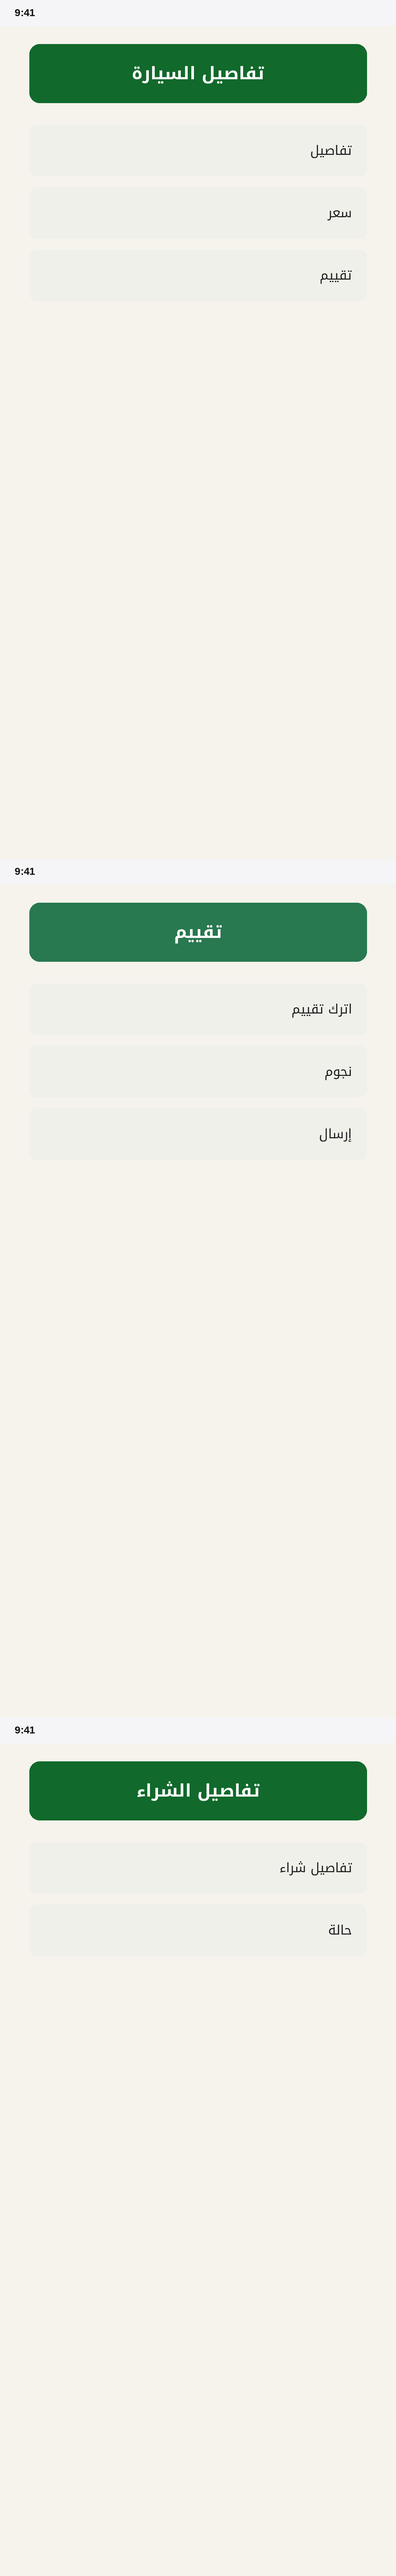
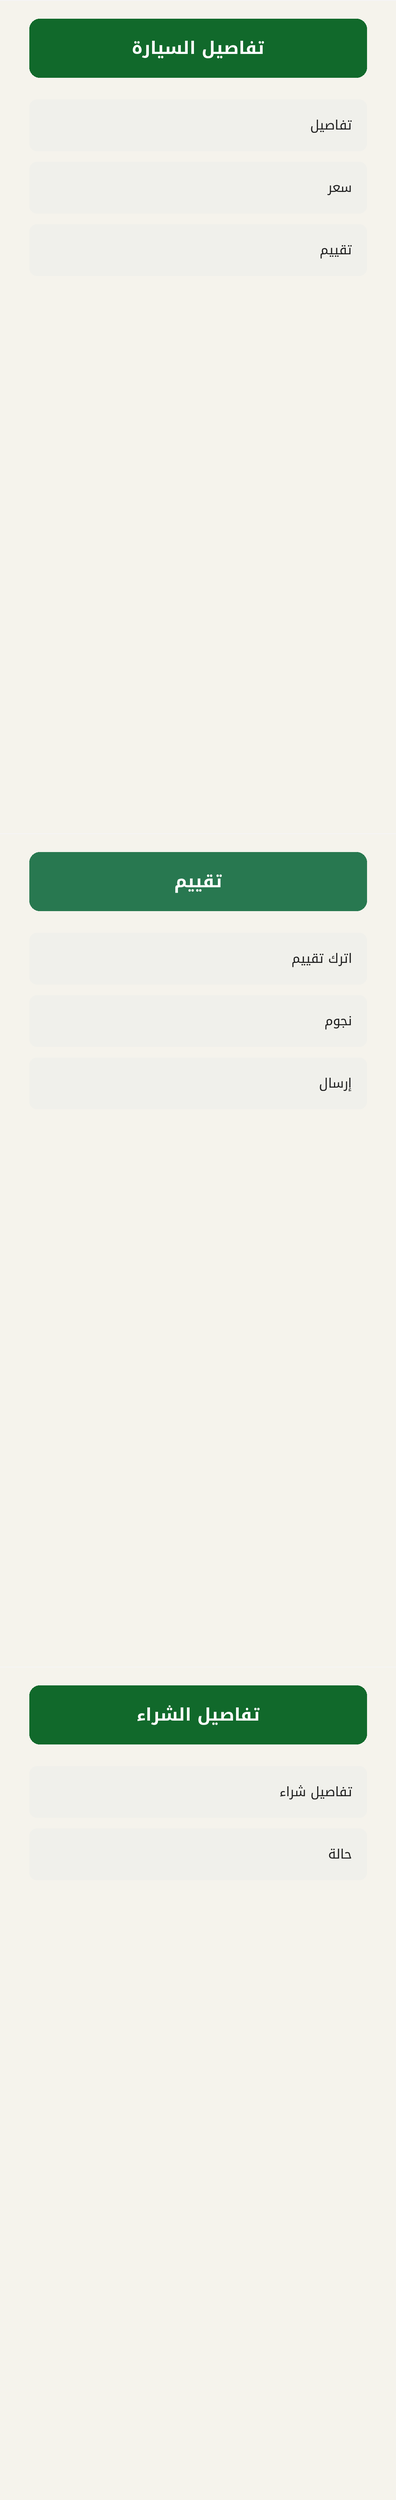
Wire up entrance/scroll config keys, fix crossfade wash-out and fixture
- Actually implement the "entrance" (rotate-in/fade-in/none) and
  "scroll" (auto/false) per-slide keys the docstring/README already
  promised but the code never read.
- Skip a slide's own entrance animation when it's arriving via
  crossfade -- blending two simultaneously-fading-in layers washed the
  transition out toward flat background. Only the deck's first slide
  (nothing to dissolve from) still plays its entrance.
- Regenerate examples/mock_shots/long_detail.png running each source
  screenshot through prepare_screen() before concatenating, so the
  interior status bars baked into the original captures don't leak
  into the middle of the "full page" scroll fixture.
- Drop the stray top-level "output" key from video_mock_config.json
  (build_carousel.py would have honored it and written a PDF named
  .mp4) and the unused default_duration parameter.

Changed region(s): [[0.0611, 0.6535, 0.9472, 0.7468], [0.0611, 0.0, 0.9472, 0.0622], [0.0611, 0.3423, 0.9472, 0.4356]]

diff --git a/build_showcase.py b/build_showcase.py
@@ -159,33 +159,41 @@ def _screens_layout(slide, cfg, canvas_size, chrome):
     return text_layer, positions
 
 
-def _prep_contents(specs, chrome, shot_w):
+ENTRANCE_ANGLES = {"rotate-in": -9.0, "fade-in": 0.0}
+
+
+def _prep_contents(specs, chrome, shot_w, allow_scroll):
     contents = []
     for s in specs:
         src = prepare_screen(s["path"], s.get("crop"), s.get("status_bar"))
         h = int(src.height * shot_w / src.width)
         content_full = src.resize((shot_w, max(1, h)), Image.LANCZOS)
         bg = content_full.getpixel((3, 3))
+        scroll_range = max(0, content_full.height - chrome["viewport_h"]) if allow_scroll else 0
         contents.append({
             "content": content_full,
             "bg": bg,
             "status": freeze_status_bar(chrome, bg),
-            "range": max(0, content_full.height - chrome["viewport_h"]),
+            "range": scroll_range,
         })
     return contents
 
 
 def render_screens_scene(slide, cfg, aspect, deck_shot_w, canvas_size, fps,
-                         entrance_dur, default_duration):
+                         entrance_dur, skip_entrance=False):
     specs = normalize_screenshots(slide)
     layout = str(slide.get("layout", Theme(cfg, slide).layout))
     if not specs or layout not in ("row", "split"):
         return None  # caller falls back to a static render
 
+    entrance_mode = str(slide.get("entrance", "rotate-in"))
+    allow_scroll = slide.get("scroll", "auto") not in (False, "none", "off")
+    entrance_angle = ENTRANCE_ANGLES.get(entrance_mode, -9.0)
+
     shot_w = _shot_width(slide, cfg, aspect, deck_shot_w)
     chrome = build_phone_chrome(shot_w, aspect)
     fw, fh = chrome["size"]
-    contents = _prep_contents(specs, chrome, shot_w)
+    contents = _prep_contents(specs, chrome, shot_w, allow_scroll)
     text_layer, positions = _screens_layout(slide, cfg, canvas_size, chrome)
 
     max_range = max((c["range"] for c in contents), default=0)
@@ -206,28 +214,33 @@ def render_screens_scene(slide, cfg, aspect, deck_shot_w, canvas_size, fps,
         tsec = f / fps
         canvas = bg_layer.copy()
 
-        text_alpha = clamp(tsec / max(entrance_dur, 1e-6))
+        text_alpha = 1.0 if skip_entrance else clamp(tsec / max(entrance_dur, 1e-6))
         if text_alpha > 0:
             layer = text_layer if text_alpha >= 1 else Image.fromarray(
                 _scaled_alpha(np.array(text_layer), text_alpha), "RGBA")
             canvas.alpha_composite(layer)
 
+        scroll_t = tsec if skip_entrance else tsec - entrance_dur
         for i, (x, y) in enumerate(positions):
-            stagger = i * 0.06
-            entrance_p = clamp((tsec - stagger) / max(entrance_dur - stagger, 1e-6))
             content = contents[i]
+            if skip_entrance or entrance_mode == "none":
+                entrance_p = 1.0
+            else:
+                stagger = i * 0.06
+                entrance_p = clamp((tsec - stagger) / max(entrance_dur - stagger, 1e-6))
 
             if entrance_p >= 1.0:
                 shadow, pad, off = shadows[i]
                 canvas.alpha_composite(shadow, (x - pad, y - pad + off))
-                offset_y = scroll_offset_at(tsec - entrance_dur, hold, scroll_time, content["range"])
+                offset_y = scroll_offset_at(scroll_t, hold, scroll_time, content["range"])
                 chrome_img = render_scroll_frame(chrome, content["content"], content["bg"],
                                                  content["status"], offset_y)
                 canvas.alpha_composite(chrome_img, (x, y))
             elif entrance_p > 0:
                 chrome_img = render_scroll_frame(chrome, content["content"], content["bg"],
                                                  content["status"], 0)
-                rotated, pos = rotate_in(chrome_img, (x + fw / 2, y + fh / 2), entrance_p)
+                rotated, pos = rotate_in(chrome_img, (x + fw / 2, y + fh / 2), entrance_p,
+                                         from_deg=entrance_angle)
                 canvas.alpha_composite(rotated, pos)
         frames.append(canvas.convert("RGB"))
     return frames
@@ -241,16 +254,19 @@ def _scaled_alpha(arr, factor):
 
 # ---------------------------------------------------- scene: static fallback
 
-def render_static_scene(slide, cfg, canvas_size, fps, entrance_dur):
+def render_static_scene(slide, cfg, canvas_size, fps, entrance_dur, skip_entrance=False):
     kind = slide.get("type", "screens")
     image = BUILDERS[kind](slide, cfg).convert("RGB")
     if image.size != canvas_size:
         image = image.resize(canvas_size, Image.LANCZOS)
 
-    t = Theme(cfg, slide)
-    bg = Image.new("RGB", canvas_size, t.bg)
     duration = clamp(float(slide.get("duration") or 3.0), 1.0, 10.0)
     n_frames = max(1, round(duration * fps))
+    if skip_entrance or str(slide.get("entrance", "fade-in")) == "none":
+        return [image] * n_frames
+
+    t = Theme(cfg, slide)
+    bg = Image.new("RGB", canvas_size, t.bg)
     frames = []
     for f in range(n_frames):
         tsec = f / fps
@@ -280,14 +296,20 @@ def build_video(cfg, out_path=None):
     deck_shot_w = deck_frame_width(cfg, aspect)
 
     per_slide_frames = []
-    for slide in slides:
+    for i, slide in enumerate(slides):
+        # A slide crossfading in from a predecessor doesn't need its own
+        # entrance animation too -- that just washes out the dissolve (see
+        # README/commit notes). Only the deck's very first slide, or any
+        # slide when transitions are off, plays its full entrance.
+        skip_entrance = i > 0 and vcfg["transition"] != "cut"
         kind = slide.get("type", "screens")
         frames = None
         if kind == "screens":
             frames = render_screens_scene(slide, cfg, aspect, deck_shot_w, canvas_size,
-                                          fps, entrance_dur, 3.0)
+                                          fps, entrance_dur, skip_entrance)
         if frames is None:
-            frames = render_static_scene(slide, cfg, canvas_size, fps, entrance_dur)
+            frames = render_static_scene(slide, cfg, canvas_size, fps, entrance_dur,
+                                         skip_entrance)
         per_slide_frames.append(frames)
 
     all_frames = []
@@ -334,7 +356,7 @@ def dump_filmstrip(cfg, out_path, n=12):
                  if s.get("type", "screens") == "screens"
                  and str(s.get("layout", "row")) in ("row", "split")), cfg["slides"][0])
     frames = render_screens_scene(slide, cfg, aspect, deck_shot_w, canvas_size, fps,
-                                  entrance_dur, 3.0) or render_static_scene(
+                                  entrance_dur) or render_static_scene(
         slide, cfg, canvas_size, fps, entrance_dur)
 
     idx = np.linspace(0, len(frames) - 1, n).astype(int)

diff --git a/README.md b/README.md
@@ -43,7 +43,7 @@ Uses the same config as the PDF carousel, plus an optional `video` block and a f
 }
 ```
 
-`screens` slides using the `row` or `split` layout get the full treatment: the phone frame rotates/fades in, then if the screenshot is taller than the device viewport it auto-scrolls top to bottom like a real screen recording (holds if it already fits). Every other slide type or layout renders once via its existing PDF slide builder and holds for its `duration` (default 3s), fading in and crossfading into the next slide. Output canvas is the deck's `width`/`height` (default 1080x1350, a 4:5 ratio suited to LinkedIn's in-feed video player).
+`screens` slides using the `row` or `split` layout get the full treatment: the phone frame rotates/fades in (`"entrance": "rotate-in"` default, or `"fade-in"`/`"none"`), then if the screenshot is taller than the device viewport it auto-scrolls top to bottom like a real screen recording (holds if it already fits; set `"scroll": false` to force a static hold instead). Every other slide type or layout renders once via its existing PDF slide builder and holds for its `duration` (default 3s), fading in and crossfading into the next slide. A slide arriving via crossfade skips its own entrance animation (the dissolve already carries it in); only the deck's first slide always plays its entrance. Output canvas is the deck's `width`/`height` (default 1080x1350, a 4:5 ratio suited to LinkedIn's in-feed video player).
 
 Paths inside the config (screenshots, icon files) are resolved relative to the config file's own directory, not the current working directory.
 
